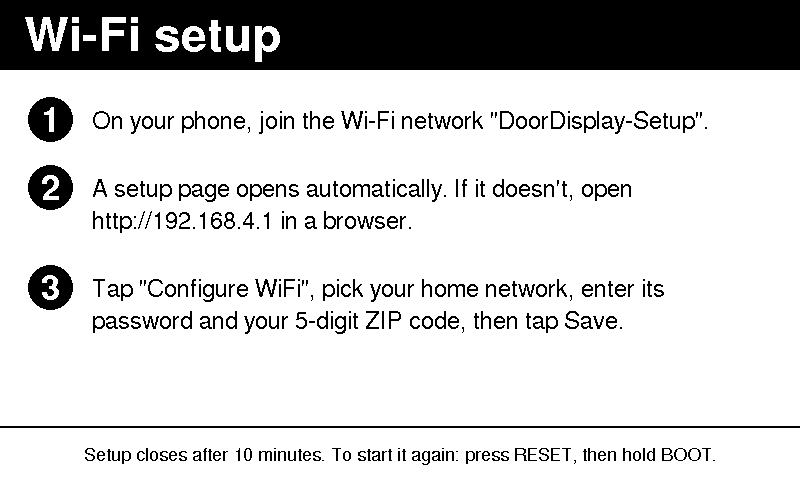
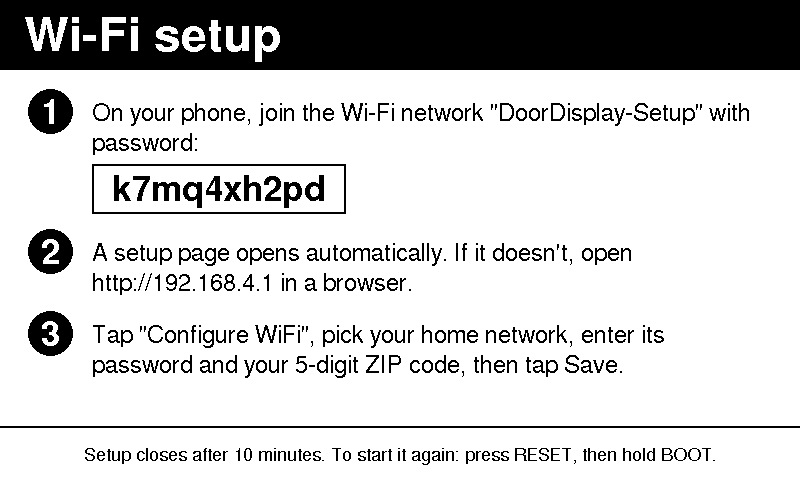
Protect setup hotspot with a random per-session WPA2 password shown on screen

Changed region(s): [[0.0312, 0.1875, 0.9375, 0.7812]]

diff --git a/lib/doorcore/src/screen.cpp b/lib/doorcore/src/screen.cpp
@@ -263,32 +263,43 @@ void drawCriticalBatteryScreen(Adafruit_GFX& g, int pct, const char* lastUpdate)
                "Updates resume automatically once it is charged.", kWhite);
 }
 
-void drawSetupScreen(Adafruit_GFX& g, const char* apName, const char* portalIp,
-                     int portalMinutes) {
+void drawSetupScreen(Adafruit_GFX& g, const char* apName, const char* apPassword,
+                     const char* portalIp, int portalMinutes) {
   g.fillScreen(kWhite);
   g.fillRect(0, 0, kScreenW, 70, kBlack);
   text(g, kHeadline, 24, 50, "Wi-Fi setup", kWhite);
 
-  char step[160];
   const int x = 92, w = kScreenW - x - 30;
-  int y = 128;
-  const char* steps[3];
-  char s1[96], s2[128];
-  snprintf(s1, sizeof s1, "On your phone, join the Wi-Fi network \"%s\".", apName);
-  snprintf(s2, sizeof s2,
+  auto bullet = [&](int n, int y) {
+    char num[4];
+    snprintf(num, sizeof num, "%d", n);
+    g.fillCircle(50, y - 9, 22, kBlack);
+    textCentered(g, kTitle, 50, y + 3, num, kWhite);
+  };
+
+  int y = 120;
+  char line[160];
+  bullet(1, y);
+  snprintf(line, sizeof line, "On your phone, join the Wi-Fi network \"%s\" with password:", apName);
+  y += textWrapped(g, kBody, x, y, w, 30, line, kBlack) * 30;
+  const int boxW = textWidth(kTitle, apPassword) + 40;
+  g.drawRect(x, y - 16, boxW, 50, kBlack);
+  g.drawRect(x + 1, y - 15, boxW - 2, 48, kBlack);
+  text(g, kTitle, x + 20, y + 20, apPassword, kBlack);
+  y += 80;
+
+  bullet(2, y);
+  snprintf(line, sizeof line,
            "A setup page opens automatically. If it doesn't, open http://%s in a browser.",
            portalIp);
-  steps[0] = s1;
-  steps[1] = s2;
-  steps[2] = "Tap \"Configure WiFi\", pick your home network, enter its password and "
-             "your 5-digit ZIP code, then tap Save.";
-  for (int i = 0; i < 3; ++i) {
-    g.fillCircle(50, y - 9, 22, kBlack);
-    snprintf(step, sizeof step, "%d", i + 1);
-    textCentered(g, kTitle, 50, y + 3, step, kWhite);
-    int lines = textWrapped(g, kBody, x, y, w, 32, steps[i], kBlack);
-    y += lines * 32 + 36;
-  }
+  y += textWrapped(g, kBody, x, y, w, 30, line, kBlack) * 30 + 22;
+
+  bullet(3, y);
+  textWrapped(g, kBody, x, y, w, 30,
+              "Tap \"Configure WiFi\", pick your home network, enter its password and "
+              "your 5-digit ZIP code, then tap Save.",
+              kBlack);
+
   g.fillRect(0, kScreenH - 54, kScreenW, 2, kBlack);
   char foot[128];
   snprintf(foot, sizeof foot,

diff --git a/host/tests.cpp b/host/tests.cpp
@@ -14,6 +14,7 @@
 #include "forecast.h"
 #include "schedule.h"
 #include "screen.h"
+#include "setup_password.h"
 #include "tz.h"
 
 #include <Adafruit_GFX.h>
@@ -328,6 +329,33 @@ static void testRendering() {
   CHECK(blackPixels(canvas, 0, 0, kScreenW, kScreenH) > kScreenW * kScreenH * 3 / 4);
 }
 
+static uint32_t seqState;
+static uint32_t seqRandom() { return seqState++ * 2654435761u; }
+static int maxCalls;
+static uint32_t mostlyMaxRandom() { return maxCalls++ < 3 ? UINT32_MAX : 7; }
+
+static void testSetupPassword() {
+  char pw[kSetupPasswordLength + 1];
+  seqState = 1;
+  makeSetupPassword(seqRandom, pw, sizeof pw);
+  CHECK(strlen(pw) == static_cast<size_t>(kSetupPasswordLength));
+  CHECK(strlen(pw) >= 8);  // WPA2 minimum
+  for (const char* c = pw; *c; ++c) CHECK(strchr(kSetupPasswordAlphabet, *c) != nullptr);
+  CHECK(strpbrk(kSetupPasswordAlphabet, "01ilo") == nullptr);
+  char other[kSetupPasswordLength + 1];
+  makeSetupPassword(seqRandom, other, sizeof other);
+  CHECK(strcmp(pw, other) != 0);
+  // Values in the biased tail are rejected and redrawn.
+  maxCalls = 0;
+  makeSetupPassword(mostlyMaxRandom, pw, sizeof pw);
+  CHECK(maxCalls == 3 + kSetupPasswordLength);
+  CHECK(pw[0] == kSetupPasswordAlphabet[7]);
+  // Never overruns a short buffer.
+  char tiny[4];
+  makeSetupPassword(seqRandom, tiny, sizeof tiny);
+  CHECK(strlen(tiny) == 3);
+}
+
 int main() {
   testBattery();
   testSchedule();
@@ -337,6 +365,7 @@ int main() {
   testForecast();
   testZip();
   testRendering();
+  testSetupPassword();
   printf("%d checks, %d failures\n", checks, failures);
   return failures ? 1 : 0;
 }

diff --git a/src/main.cpp b/src/main.cpp
@@ -23,6 +23,7 @@
 #include "forecast.h"
 #include "schedule.h"
 #include "screen.h"
+#include "setup_password.h"
 #include "tz.h"
 
 using namespace door;
@@ -203,8 +204,14 @@ bool bootButtonHeld() {
 // Runs the captive portal. Returns true once Wi-Fi works and the ZIP code
 // resolves to a location.
 bool runSetupPortal(Settings& s, int batteryPct) {
+  // A fresh WPA2 password per session keeps the home Wi-Fi password encrypted
+  // over the air while it's typed into the portal. esp_random() is a hardware
+  // RNG once the radio is on.
+  WiFi.mode(WIFI_STA);
+  char apPassword[kSetupPasswordLength + 1];
+  makeSetupPassword(esp_random, apPassword, sizeof apPassword);
   showScreen([&](Adafruit_GFX& g) {
-    drawSetupScreen(g, kSetupApName, "192.168.4.1", kSetupPortalMinutes);
+    drawSetupScreen(g, kSetupApName, apPassword, "192.168.4.1", kSetupPortalMinutes);
   });
 
   WiFiManager wm;
@@ -219,7 +226,7 @@ bool runSetupPortal(Settings& s, int batteryPct) {
   std::vector<const char*> menu = {"wifi", "exit"};
   wm.setMenu(menu);
 
-  bool connected = wm.startConfigPortal(kSetupApName);
+  bool connected = wm.startConfigPortal(kSetupApName, apPassword);
   const char* zip = zipParam.getValue();
   if (isValidZip(zip)) snprintf(s.zip, sizeof s.zip, "%s", zip);
 

diff --git a/lib/doorcore/src/setup_password.cpp b/lib/doorcore/src/setup_password.cpp
@@ -1,0 +1,20 @@
+#include "setup_password.h"
+
+#include <string.h>
+
+namespace door {
+
+void makeSetupPassword(uint32_t (*random32)(), char* out, size_t len) {
+  if (len == 0) return;
+  const uint32_t n = static_cast<uint32_t>(strlen(kSetupPasswordAlphabet));
+  const uint32_t limit = UINT32_MAX - UINT32_MAX % n;  // rejection sampling: no modulo bias
+  size_t i = 0;
+  for (; i < static_cast<size_t>(kSetupPasswordLength) && i + 1 < len; ++i) {
+    uint32_t r;
+    do r = random32(); while (r >= limit);
+    out[i] = kSetupPasswordAlphabet[r % n];
+  }
+  out[i] = '\0';
+}
+
+}  // namespace door

diff --git a/lib/doorcore/src/setup_password.h b/lib/doorcore/src/setup_password.h
@@ -1,0 +1,15 @@
+#pragma once
+#include <stddef.h>
+#include <stdint.h>
+
+namespace door {
+
+constexpr int kSetupPasswordLength = 10;
+// Lowercase letters and digits that can't be confused on screen (no 0/o, 1/l/i).
+constexpr const char* kSetupPasswordAlphabet = "abcdefghjkmnpqrstuvwxyz23456789";
+
+// Fills `out` with a random WPA2 passphrase for the setup hotspot (~49 bits).
+// `random32` must be a cryptographic RNG (esp_random() with the radio on).
+void makeSetupPassword(uint32_t (*random32)(), char* out, size_t len);
+
+}  // namespace door

diff --git a/lib/doorcore/src/screen.h b/lib/doorcore/src/screen.h
@@ -34,7 +34,8 @@ void drawCriticalBatteryScreen(Adafruit_GFX& g, int batteryPercent,
                                const char* lastUpdate);
 
 // Instructions shown while the Wi-Fi setup portal is running.
-void drawSetupScreen(Adafruit_GFX& g, const char* apName, const char* portalIp,
+void drawSetupScreen(Adafruit_GFX& g, const char* apName, const char* apPassword,
+                     const char* portalIp,
                      int portalMinutes);
 
 // Generic title + body message (errors, setup results).

diff --git a/host/preview.cpp b/host/preview.cpp
@@ -90,7 +90,7 @@ int main(int argc, char** argv) {
   drawCriticalBatteryScreen(c, 1, "Wednesday 2026-10-21 7:00 AM");
   save(c, dir, "critical_battery");
 
-  drawSetupScreen(c, "DoorDisplay-Setup", "192.168.4.1", 10);
+  drawSetupScreen(c, "DoorDisplay-Setup", "k7mq4xh2pd", "192.168.4.1", 10);
   save(c, dir, "setup");
 
   drawMessageScreen(c, "No weather data",

diff --git a/README.md b/README.md
@@ -86,14 +86,26 @@ Other settings in `src/config.h`: refresh window (`kRefreshStartHour`/`kRefreshE
 
 ### Connecting to Wi-Fi
 
-1. On first boot the display shows setup instructions and opens a Wi-Fi hotspot called **DoorDisplay-Setup**.
-2. Join it from your phone; the setup page opens automatically (or browse to `http://192.168.4.1`).
+1. On first boot the display shows setup instructions and opens a Wi-Fi hotspot called **DoorDisplay-Setup**,
+   protected by a random password shown on the screen.
+2. Join it from your phone with that password; the setup page opens automatically (or browse to `http://192.168.4.1`).
 3. Tap **Configure WiFi**, choose your network, enter its password and your **5-digit ZIP code**, and Save.
 
 The device checks the ZIP code, stores the Wi-Fi credentials and location in flash, and draws the forecast.
 To change Wi-Fi or ZIP later, press **RESET** and then hold **BOOT** for 3 seconds. The hotspot closes after
 10 minutes. If Wi-Fi is down at a scheduled refresh, it keeps showing the last forecast marked
 "Offline - last update …" and tries again next hour.
+
+### Security notes
+
+- The setup hotspot uses WPA2 with a new random 10-character password every time setup starts, so your home
+  Wi-Fi password is encrypted over the air while you type it into the portal. Only someone who can see the
+  screen can join. The portal's firmware-upload page is disabled, and the saved password is never shown.
+- The Wi-Fi password is stored unencrypted in the ESP32's flash, so someone with physical access and a USB
+  cable could read it. Mount it indoors, or put it on a guest/IoT network.
+- The device makes only outbound requests (Open-Meteo, Zippopotam.us, NTP) and turns Wi-Fi off between refreshes.
+  HTTPS certificates are not verified: a man-in-the-middle could show fake weather, but no credentials or
+  personal data are sent.
 
 ## How it behaves
 
